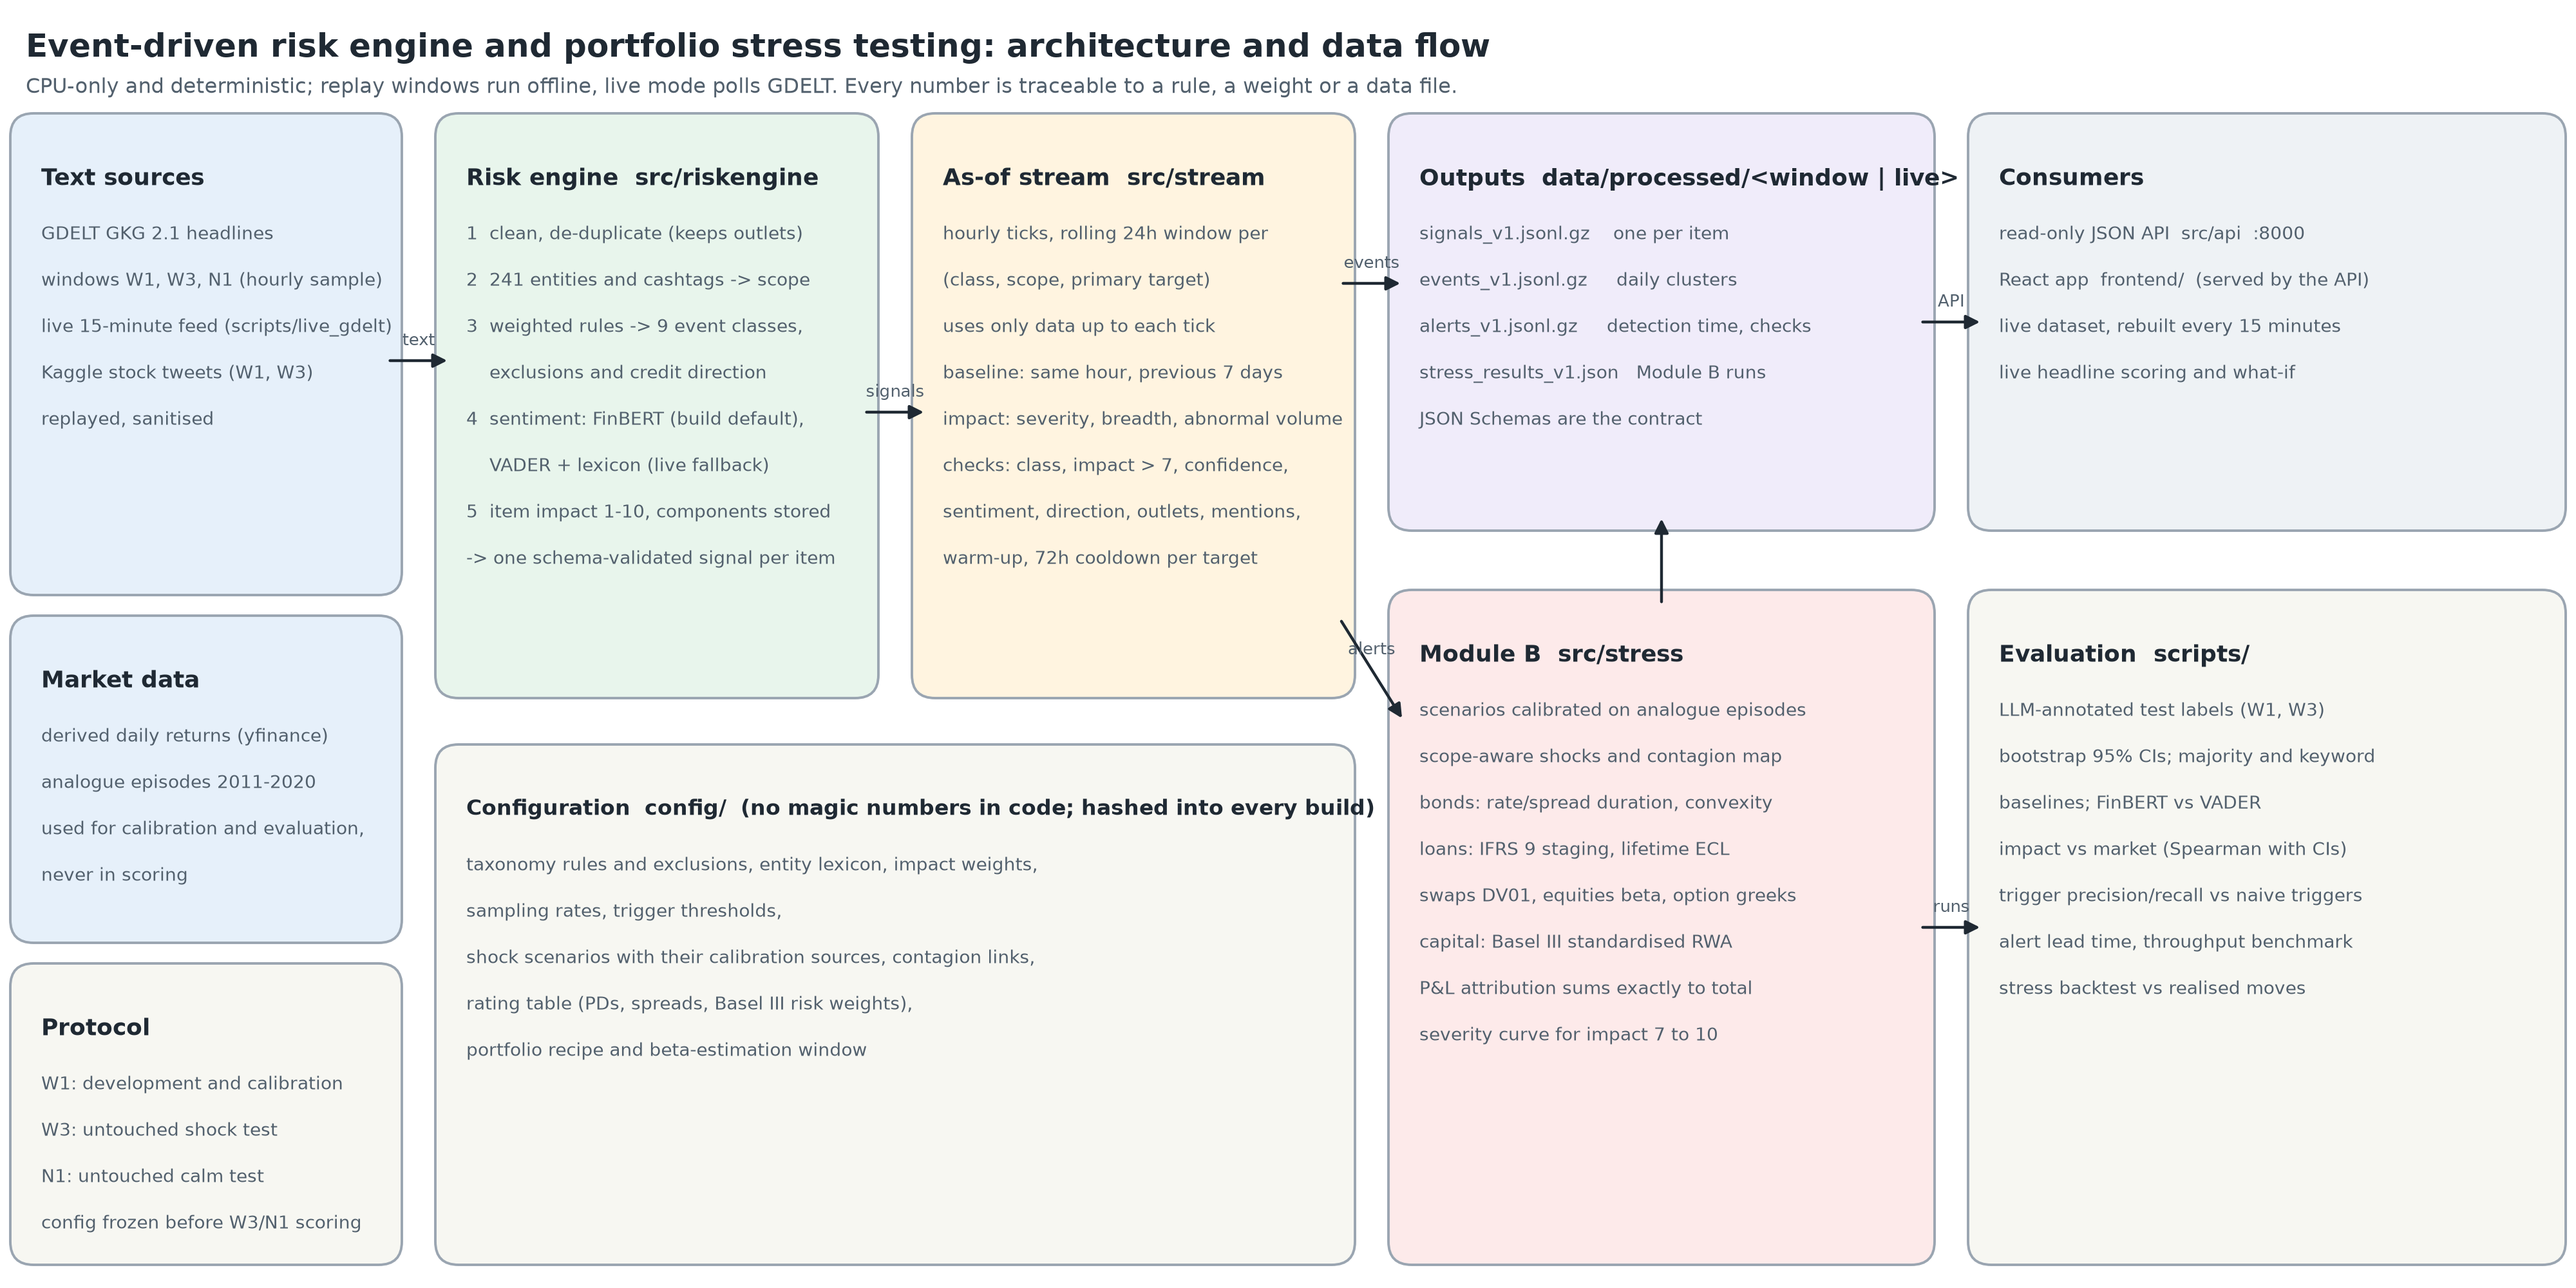
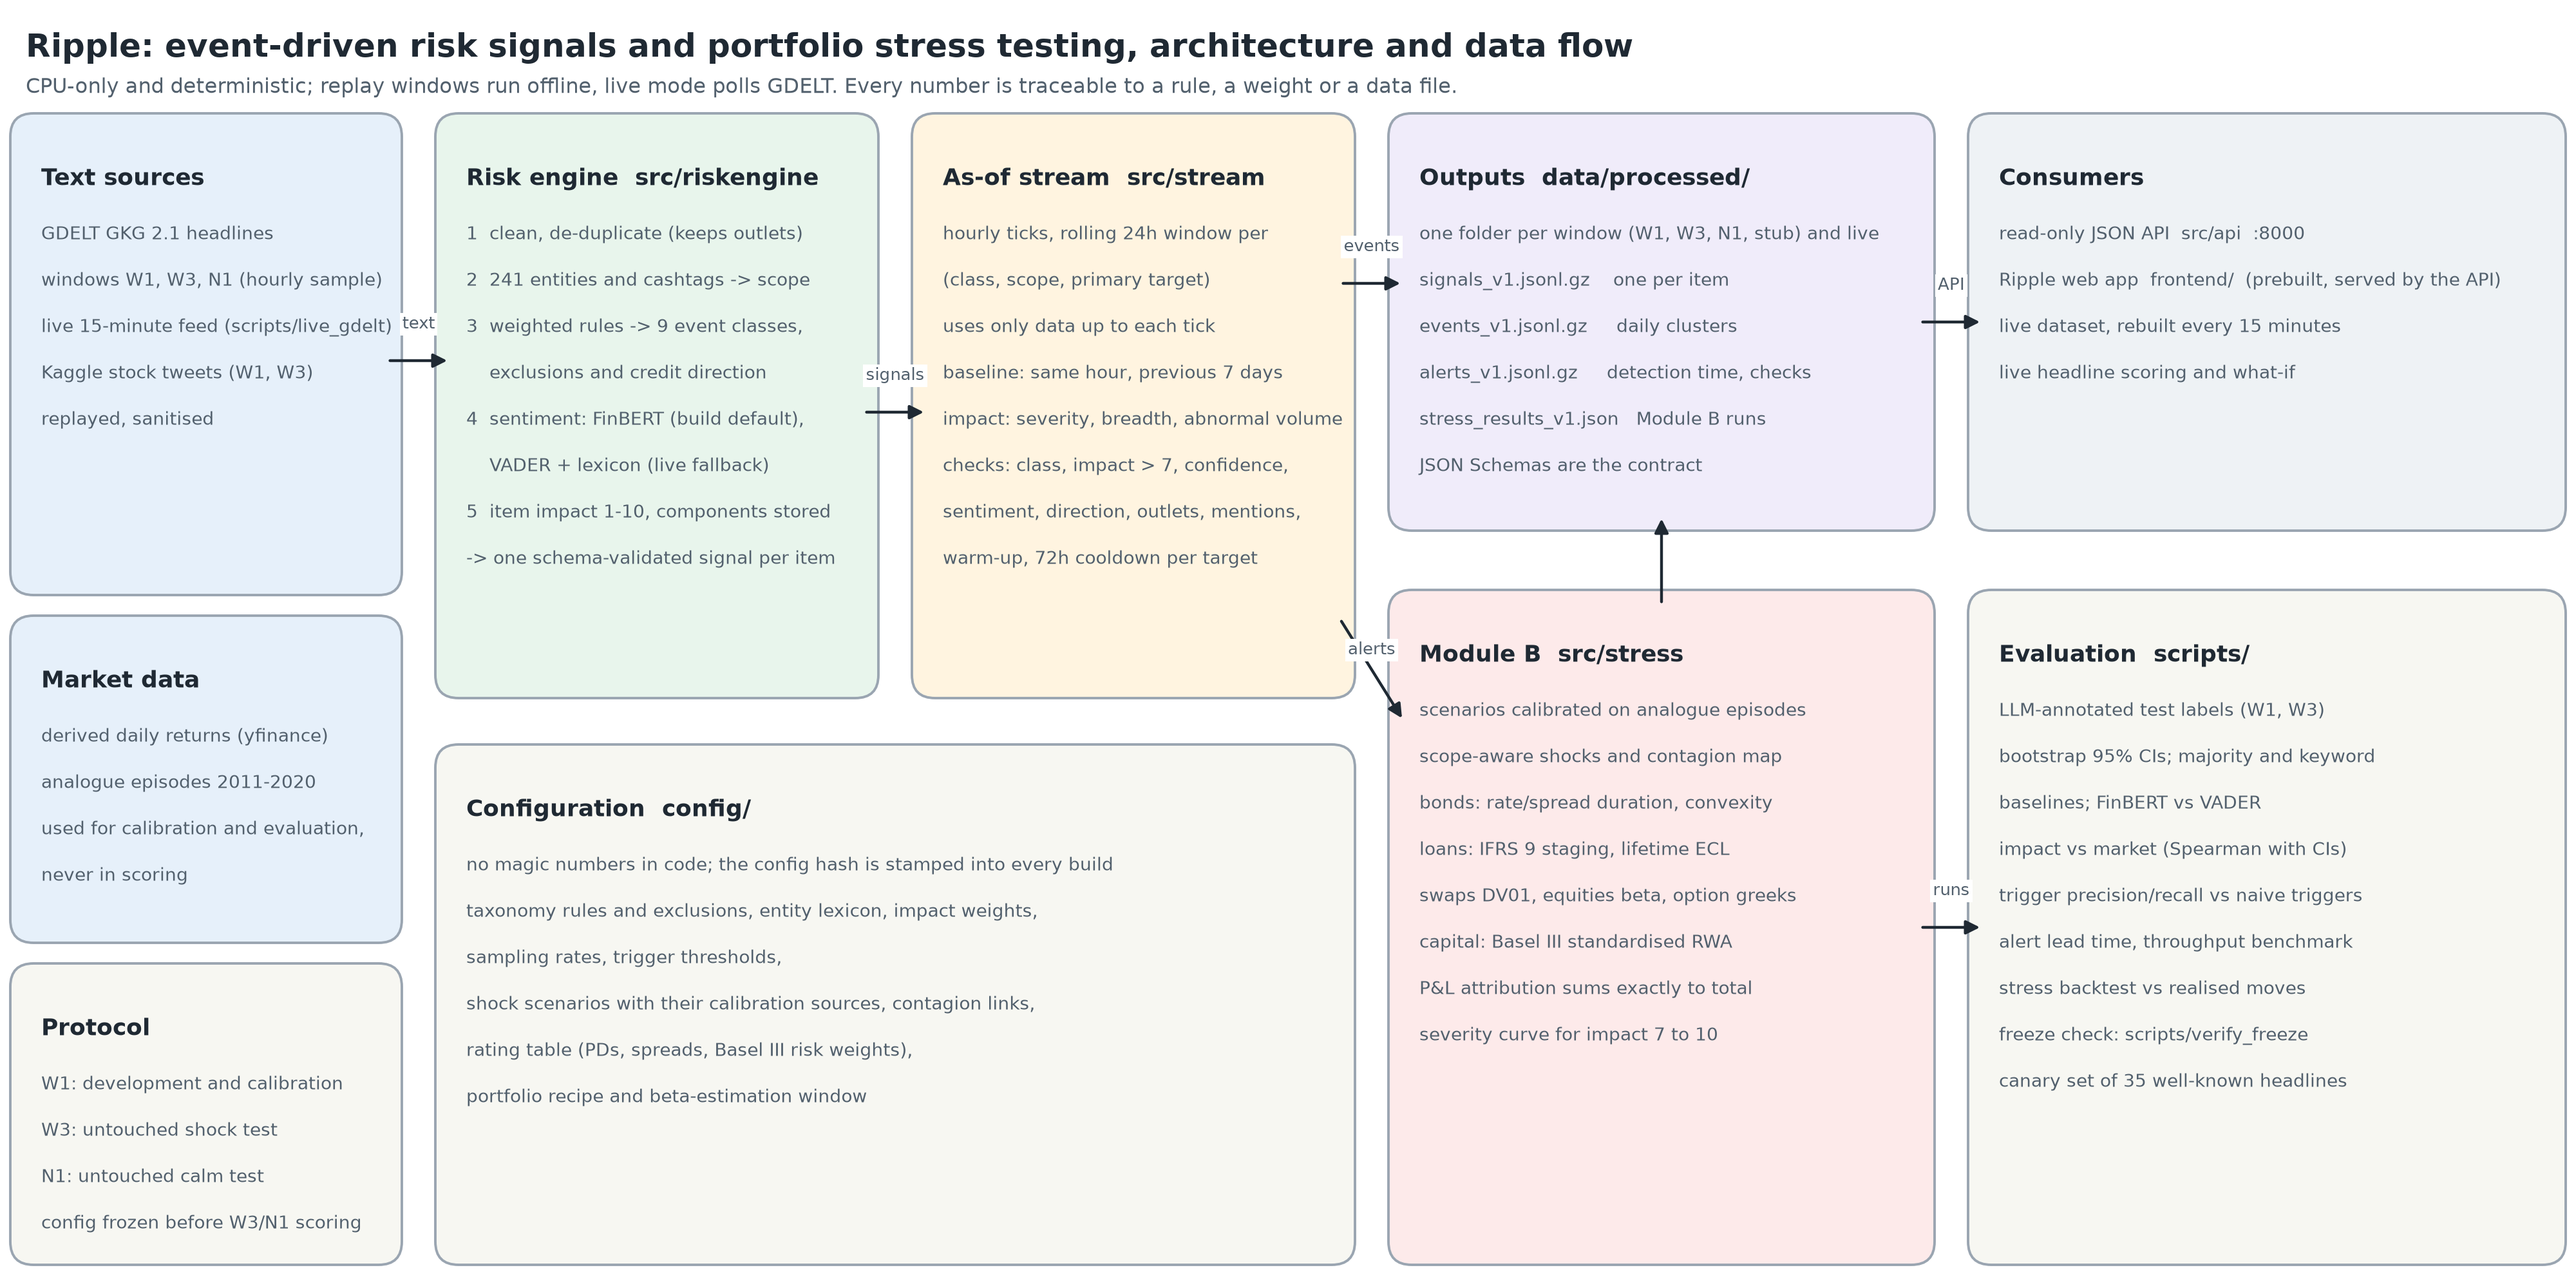
architecture diagram: Ripple title, no overflowing headers, freeze check and canary set

diff --git a/scripts/make_architecture.py b/scripts/make_architecture.py
@@ -26,7 +26,7 @@ def box(ax, x, y, w, h, title, lines, kind, title_size=13):
 def arrow(ax, start, end, label=None, offset=(0.0, 0.012)):
     ax.add_patch(FancyArrowPatch(start, end, arrowstyle="-|>", mutation_scale=16, linewidth=1.6, color=INK, shrinkA=2, shrinkB=2))
     if label:
-        ax.text((start[0] + end[0]) / 2 + offset[0], (start[1] + end[1]) / 2 + offset[1], label, fontsize=9.5, color=MUTED, ha="center")
+        ax.text((start[0] + end[0]) / 2 + offset[0], (start[1] + end[1]) / 2 + offset[1], label, fontsize=9.5, color=MUTED, ha="center", bbox={"facecolor": "white", "edgecolor": "none", "pad": 1.5})
 
 
 def draw(path: Path) -> None:
@@ -35,25 +35,25 @@ def draw(path: Path) -> None:
     ax.set_xlim(0, 2.0)
     ax.set_ylim(0, 1.0)
     ax.axis("off")
-    ax.text(0.02, 0.975, "Event-driven risk engine and portfolio stress testing: architecture and data flow", fontsize=18, fontweight="bold", color=INK, va="top")
+    ax.text(0.02, 0.975, "Ripple: event-driven risk signals and portfolio stress testing, architecture and data flow", fontsize=18, fontweight="bold", color=INK, va="top")
     ax.text(0.02, 0.94, "CPU-only and deterministic; replay windows run offline, live mode polls GDELT. Every number is traceable to a rule, a weight or a data file.", fontsize=11.5, color=MUTED, va="top")
     box(ax, 0.02, 0.55, 0.28, 0.35, "Text sources", ["GDELT GKG 2.1 headlines", "windows W1, W3, N1 (hourly sample)", "live 15-minute feed (scripts/live_gdelt)", "Kaggle stock tweets (W1, W3)", "replayed, sanitised"], "source")
     box(ax, 0.02, 0.28, 0.28, 0.23, "Market data", ["derived daily returns (yfinance)", "analogue episodes 2011-2020", "used for calibration and evaluation,", "never in scoring"], "source")
     box(ax, 0.02, 0.03, 0.28, 0.21, "Protocol", ["W1: development and calibration", "W3: untouched shock test", "N1: untouched calm test", "config frozen before W3/N1 scoring"], "config")
     box(ax, 0.35, 0.47, 0.32, 0.43, "Risk engine  src/riskengine", ["1  clean, de-duplicate (keeps outlets)", "2  241 entities and cashtags -> scope", "3  weighted rules -> 9 event classes,", "    exclusions and credit direction", "4  sentiment: FinBERT (build default),", "    VADER + lexicon (live fallback)", "5  item impact 1-10, components stored", "-> one schema-validated signal per item"], "engine")
     box(ax, 0.72, 0.47, 0.32, 0.43, "As-of stream  src/stream", ["hourly ticks, rolling 24h window per", "(class, scope, primary target)", "uses only data up to each tick", "baseline: same hour, previous 7 days", "impact: severity, breadth, abnormal volume", "checks: class, impact > 7, confidence,", "sentiment, direction, outlets, mentions,", "warm-up, 72h cooldown per target"], "stream")
-    box(ax, 0.35, 0.03, 0.69, 0.38, "Configuration  config/  (no magic numbers in code; hashed into every build)", ["taxonomy rules and exclusions, entity lexicon, impact weights,", "sampling rates, trigger thresholds,", "shock scenarios with their calibration sources, contagion links,", "rating table (PDs, spreads, Basel III risk weights),", "portfolio recipe and beta-estimation window"], "config", title_size=12)
-    box(ax, 1.09, 0.60, 0.40, 0.30, "Outputs  data/processed/<window | live>", ["signals_v1.jsonl.gz    one per item", "events_v1.jsonl.gz     daily clusters", "alerts_v1.jsonl.gz     detection time, checks", "stress_results_v1.json   Module B runs", "JSON Schemas are the contract"], "store")
+    box(ax, 0.35, 0.03, 0.69, 0.38, "Configuration  config/", ["no magic numbers in code; the config hash is stamped into every build", "taxonomy rules and exclusions, entity lexicon, impact weights,", "sampling rates, trigger thresholds,", "shock scenarios with their calibration sources, contagion links,", "rating table (PDs, spreads, Basel III risk weights),", "portfolio recipe and beta-estimation window"], "config")
+    box(ax, 1.09, 0.60, 0.40, 0.30, "Outputs  data/processed/", ["one folder per window (W1, W3, N1, stub) and live", "signals_v1.jsonl.gz    one per item", "events_v1.jsonl.gz     daily clusters", "alerts_v1.jsonl.gz     detection time, checks", "stress_results_v1.json   Module B runs", "JSON Schemas are the contract"], "store")
     box(ax, 1.09, 0.03, 0.40, 0.50, "Module B  src/stress", ["scenarios calibrated on analogue episodes", "scope-aware shocks and contagion map", "bonds: rate/spread duration, convexity", "loans: IFRS 9 staging, lifetime ECL", "swaps DV01, equities beta, option greeks", "capital: Basel III standardised RWA", "P&L attribution sums exactly to total", "severity curve for impact 7 to 10"], "stress")
-    box(ax, 1.54, 0.60, 0.44, 0.30, "Consumers", ["read-only JSON API  src/api  :8000", "React app  frontend/  (served by the API)", "live dataset, rebuilt every 15 minutes", "live headline scoring and what-if"], "ui")
-    box(ax, 1.54, 0.03, 0.44, 0.50, "Evaluation  scripts/", ["LLM-annotated test labels (W1, W3)", "bootstrap 95% CIs; majority and keyword", "baselines; FinBERT vs VADER", "impact vs market (Spearman with CIs)", "trigger precision/recall vs naive triggers", "alert lead time, throughput benchmark", "stress backtest vs realised moves"], "eval")
-    arrow(ax, (0.30, 0.72), (0.35, 0.72), "text")
-    arrow(ax, (0.67, 0.68), (0.72, 0.68), "signals")
-    arrow(ax, (1.04, 0.78), (1.09, 0.78), "events")
+    box(ax, 1.54, 0.60, 0.44, 0.30, "Consumers", ["read-only JSON API  src/api  :8000", "Ripple web app  frontend/  (prebuilt, served by the API)", "live dataset, rebuilt every 15 minutes", "live headline scoring and what-if"], "ui")
+    box(ax, 1.54, 0.03, 0.44, 0.50, "Evaluation  scripts/", ["LLM-annotated test labels (W1, W3)", "bootstrap 95% CIs; majority and keyword", "baselines; FinBERT vs VADER", "impact vs market (Spearman with CIs)", "trigger precision/recall vs naive triggers", "alert lead time, throughput benchmark", "stress backtest vs realised moves", "freeze check: scripts/verify_freeze", "canary set of 35 well-known headlines"], "eval")
+    arrow(ax, (0.30, 0.72), (0.35, 0.72), "text", (0.0, 0.025))
+    arrow(ax, (0.67, 0.68), (0.72, 0.68), "signals", (0.0, 0.025))
+    arrow(ax, (1.04, 0.78), (1.09, 0.78), "events", (0.0, 0.025))
     arrow(ax, (1.04, 0.52), (1.09, 0.44), "alerts")
     arrow(ax, (1.29, 0.53), (1.29, 0.60), None)
-    arrow(ax, (1.49, 0.75), (1.54, 0.75), "API")
-    arrow(ax, (1.49, 0.28), (1.54, 0.28), "runs")
+    arrow(ax, (1.49, 0.75), (1.54, 0.75), "API", (0.0, 0.025))
+    arrow(ax, (1.49, 0.28), (1.54, 0.28), "runs", (0.0, 0.025))
     path.parent.mkdir(parents=True, exist_ok=True)
     fig.savefig(path, dpi=200, facecolor="white")
     plt.close(fig)

diff --git a/README.md b/README.md
@@ -108,8 +108,10 @@ Run the API and the Vite dev server in two terminals:
 
 ```bash
 python -m src.api               # terminal 1, repository root
-cd frontend && npm run dev      # terminal 2, http://127.0.0.1:5173 (proxies /api to port 8000)
+cd frontend && npm ci && npm run dev   # terminal 2, http://127.0.0.1:5173 (proxies /api to port 8000)
 ```
+
+After changing the frontend, `python run.py` rebuilds `frontend/dist` and stamps it with the new source hash; commit both.
 
 API routes, design notes and frontend scripts are in [frontend/README.md](frontend/README.md).
 
